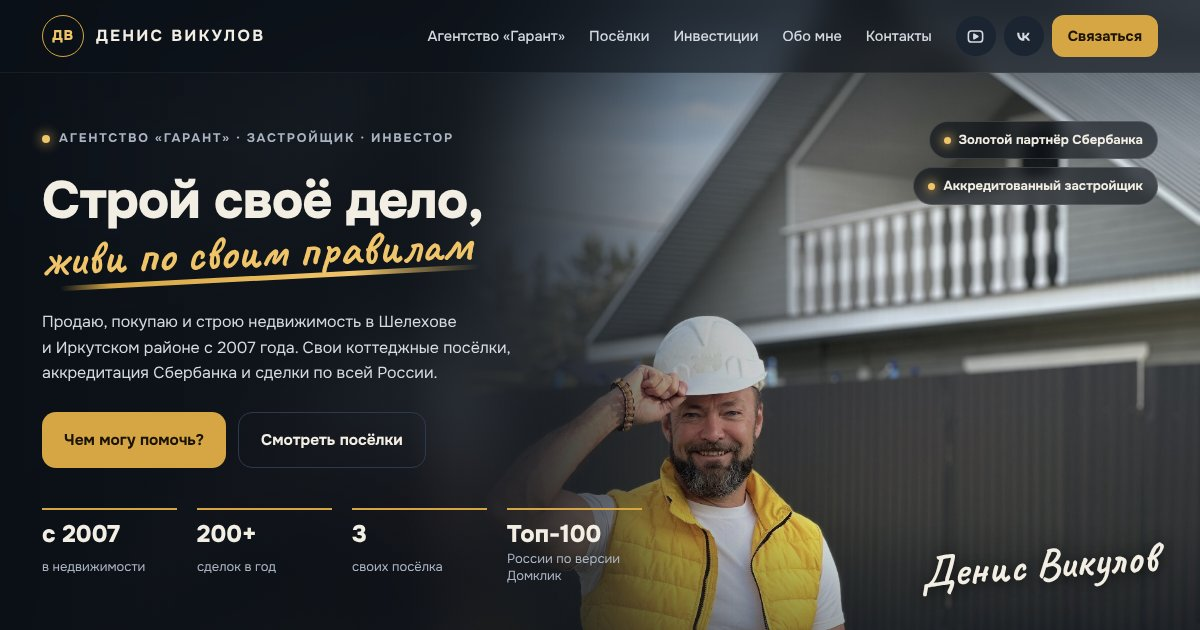
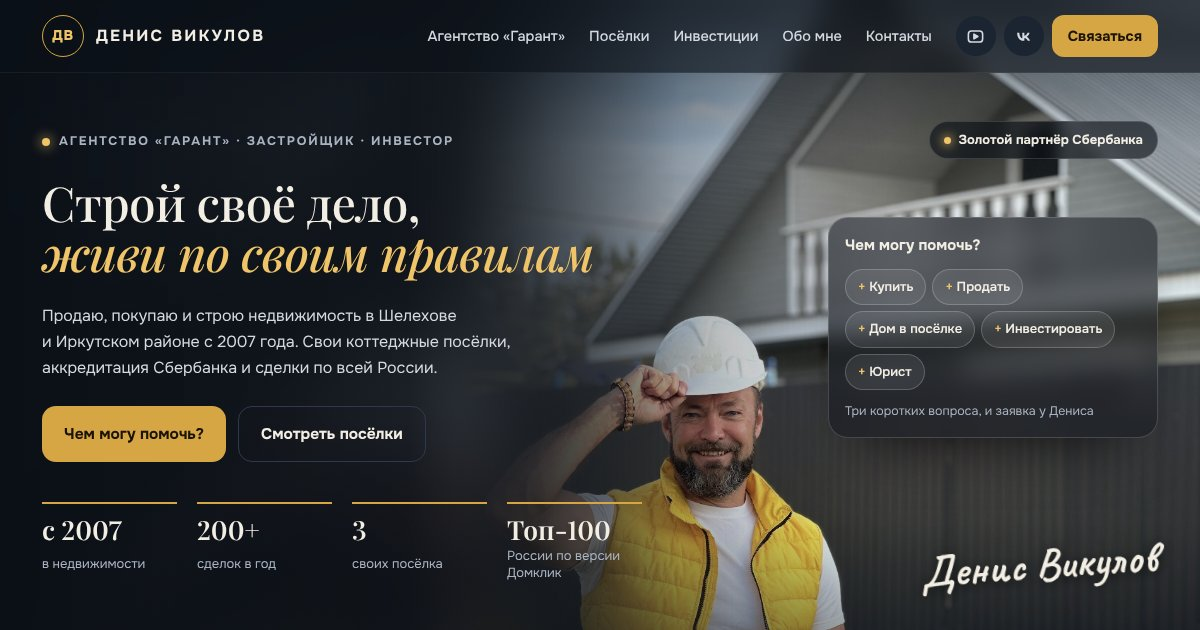
Денис Викулов: заголовки с засечками и карточка «Чем могу помочь?» по референсам
Claude-Session: https://claude.ai/code/session_01MqcZMF1QZGroxt2dRB4nWR

diff --git a/denis-vikulov/index.html b/denis-vikulov/index.html
@@ -9,7 +9,7 @@
 <link rel="icon" href="img/avatar.jpg">
 <link rel="preconnect" href="https://fonts.googleapis.com">
 <link rel="preconnect" href="https://fonts.gstatic.com" crossorigin>
-<link rel="stylesheet" href="https://fonts.googleapis.com/css2?family=Onest:wght@400;500;600;700;800&family=Caveat:wght@700&display=swap">
+<link rel="stylesheet" href="https://fonts.googleapis.com/css2?family=Onest:wght@400;500;600;700;800&family=Playfair+Display:ital,wght@0,500;0,600;1,500&family=Caveat:wght@700&display=swap">
 <style>
 /* Главный экран как баннер Дениса, только вживую: слева слоган и цифры, справа два мира (стройка и горы), снизу четыре входа в направления */
 :root{
@@ -19,6 +19,7 @@
   --green:#8CC46F;--wa:#25D366;
   --font:"Onest",system-ui,-apple-system,"Segoe UI",Roboto,sans-serif;
   --script:"Caveat","Segoe Script",cursive;
+  --serif:"Playfair Display",Georgia,serif;
   color-scheme:dark;
 }
 *{box-sizing:border-box}
@@ -67,20 +68,26 @@ nav a:hover{color:var(--gold-hi)}
 .stage::after{content:"";position:absolute;inset:0;z-index:-1;background:linear-gradient(90deg,var(--bg) 0%,rgb(11 16 23 / .9) 34%,rgb(11 16 23 / .35) 56%,transparent 74%),linear-gradient(180deg,rgb(11 16 23 / .6) 0%,transparent 18%,transparent 64%,var(--bg) 100%)}
 .hero{position:relative;display:grid;grid-template-columns:minmax(0,600px) minmax(0,1fr);gap:40px;min-height:clamp(560px,calc(100vh - 210px),720px);padding-block:clamp(48px,7vh,84px) 40px;align-items:center}
 .h-left{display:grid;gap:26px;align-content:center}
-.hero h1{font-weight:800;font-size:clamp(40px,4.4vw,64px);line-height:1;letter-spacing:-.02em}
-.hero h1 .scr{display:block;position:relative;width:max-content;max-width:100%;margin-top:.16em;font-family:var(--script);font-weight:700;font-size:clamp(40px,4vw,58px);line-height:1;letter-spacing:0;color:var(--gold-hi);transform:rotate(-2deg);transform-origin:left center}
-.hero h1 .scr::after{content:"";position:absolute;left:4%;right:-2%;bottom:-.1em;height:.11em;border-radius:99px;background:linear-gradient(90deg,transparent,var(--gold) 12%,var(--gold-hi) 70%,transparent);transform:rotate(-1deg)}
+.hero h1{font-family:var(--serif);font-weight:500;font-size:clamp(38px,4vw,58px);font-variant-numeric:lining-nums;line-height:1.04;letter-spacing:-.01em}
+.hero h1 .scr{display:block;font-style:italic;color:var(--gold-hi)}
+
 .sub{font-size:clamp(16px,1.3vw,18.5px);color:#D5D9E0;max-width:46ch;line-height:1.6}
 .acts{display:flex;flex-wrap:wrap;gap:12px}
 .stats{display:grid;grid-template-columns:repeat(4,minmax(0,1fr));gap:20px;margin-top:14px}
 .stats div{border-top:2px solid var(--gold);padding-top:12px;display:grid;gap:4px}
-.stats b{font-size:clamp(22px,2vw,28px);font-weight:800;line-height:1.05}
+.stats b{font-family:var(--serif);font-weight:600;font-variant-numeric:lining-nums;font-size:clamp(24px,2.2vw,32px);line-height:1.05}
 .stats span{font-size:13px;color:var(--muted);line-height:1.3}
 .h-marks{position:relative;align-self:stretch}
 .chip{position:absolute;z-index:3;display:inline-flex;align-items:center;gap:8px;background:rgb(11 16 23 / .62);backdrop-filter:blur(8px);border:1px solid rgb(255 255 255 / .14);border-radius:999px;padding:8px 14px;font-size:13px;font-weight:700;white-space:nowrap}
 .chip::before{content:"";width:7px;height:7px;border-radius:50%;background:var(--gold-hi);box-shadow:0 0 10px 2px rgb(240 197 106 / .6)}
 .chip.sber{top:0;right:0}
-.chip.akk{top:46px;right:0}
+.ask{position:absolute;right:0;top:96px;width:330px;display:grid;gap:12px;padding:16px;border-radius:20px;background:rgb(11 16 23 / .5);backdrop-filter:blur(14px);border:1px solid rgb(255 255 255 / .16);box-shadow:0 30px 60px -30px rgb(0 0 0 / .8)}
+.ask b{font-size:15px}
+.ask small{font-size:12.5px;color:var(--muted)}
+.ask .opts{display:flex;flex-wrap:wrap;gap:6px}
+.ask .opts button{border:1px solid rgb(255 255 255 / .2);background:rgb(255 255 255 / .08);border-radius:999px;padding:7px 12px;font-size:13px;font-weight:600}
+.ask .opts button::before{content:"+ ";color:var(--gold-hi)}
+.ask .opts button:hover{border-color:var(--gold);background:var(--gold-tint)}
 .sign{position:absolute;right:0;bottom:6px;font-family:var(--script);font-size:44px;line-height:1;color:var(--ink);text-shadow:0 2px 14px rgb(0 0 0 / .7);transform:rotate(-4deg)}
 
 /* четыре входа */
@@ -102,13 +109,12 @@ nav a:hover{color:var(--gold-hi)}
   .bg-photo{left:0;width:auto;bottom:auto;height:460px;background-position:30% 18%;-webkit-mask-image:linear-gradient(180deg,#000 60%,transparent);mask-image:linear-gradient(180deg,#000 60%,transparent)}
   .stage::after{background:linear-gradient(180deg,rgb(11 16 23 / .35) 0,transparent 90px,transparent 190px,rgb(11 16 23 / .8) 330px,var(--bg) 440px)}
   .h-marks{position:absolute;inset:16px 0 auto 0;height:260px}
-  .chip.akk,.sign{display:none}
+  .ask,.sign{display:none}
 }
 @media (max-width:640px){
   .chip{font-size:11.5px;padding:5px 10px}
   .h-left{gap:18px}
-  .hero h1{font-size:37px}
-  .hero h1 .scr{font-size:35px;width:max-content}
+  .hero h1{font-size:34px}
   .eyebrow .long2{display:none}
   .sub{font-size:15.5px}
   .sub .long{display:none}
@@ -127,8 +133,8 @@ nav a:hover{color:var(--gold-hi)}
 /* структура */
 section{padding-block:clamp(48px,7vw,88px)}
 .sec-h{display:grid;gap:12px;max-width:760px;margin-bottom:28px}
-.sec-h h2{font-weight:800;font-size:clamp(28px,3.2vw,42px);line-height:1.08;letter-spacing:-.015em}
-.sec-h h2 em{font-style:normal;color:var(--gold-hi)}
+.sec-h h2{font-family:var(--serif);font-weight:500;font-size:clamp(30px,3.4vw,46px);line-height:1.1;letter-spacing:-.005em}
+.sec-h h2 em{font-style:italic;color:var(--gold-hi)}
 .sec-h p{color:var(--muted);font-size:17px}
 .blocks{display:grid;grid-template-columns:repeat(3,minmax(0,1fr));gap:12px}
 .blk{display:grid;gap:8px;align-content:start;padding:18px;border-radius:20px;background:var(--surface);border:1px solid var(--line)}
@@ -228,7 +234,7 @@ dialog p{color:var(--muted);font-size:14.5px;margin-bottom:8px}
           <div><b>Топ-100</b><span>России по&nbsp;версии Домклик</span></div>
         </div>
       </div>
-      <div class="h-marks"><span class="chip sber">Золотой партнёр Сбербанка</span><span class="chip akk">Аккредитованный застройщик</span><span class="sign">Денис Викулов</span></div>
+      <div class="h-marks"><span class="chip sber">Золотой партнёр Сбербанка</span><div class="ask"><b>Чем могу помочь?</b><div class="opts"><button type="button" data-need="Купить квартиру или дом">Купить</button><button type="button" data-need="Продать недвижимость">Продать</button><button type="button" data-need="Дом в посёлке Дениса">Дом в&nbsp;посёлке</button><button type="button" data-need="Инвестировать">Инвестировать</button><button type="button" data-need="Вопрос к юристу">Юрист</button></div><small>Три коротких вопроса, и&nbsp;заявка у&nbsp;Дениса</small></div><span class="sign">Денис Викулов</span></div>
     </div>
 
     <div class="dirs" id="vhody">
@@ -341,6 +347,7 @@ dialog p{color:var(--muted);font-size:14.5px;margin-bottom:8px}
 </dialog>
 
 <script>
+document.querySelectorAll('.ask [data-need]').forEach(b=>b.addEventListener('click',()=>{const r=document.querySelector('input[name="need"][value="'+b.dataset.need+'"]');if(r)r.checked=true;document.getElementById('kviz').scrollIntoView({behavior:'smooth'})}));
 const f=document.getElementById('qform'),ok=document.getElementById('ok'),send=document.getElementById('send');
 ok.addEventListener('change',()=>{send.disabled=!ok.checked});
 document.querySelectorAll('[data-open]').forEach(b=>b.addEventListener('click',()=>document.getElementById(b.dataset.open).showModal()));

diff --git a/denis-vikulov/_iskhodniki/referensy/README.md b/denis-vikulov/_iskhodniki/referensy/README.md
@@ -1,0 +1,12 @@
+# Референсы Анастасии (Pinterest, 24.11)
+
+Что откуда берём:
+- 01 галерея-карусель с вкладками → блок «Обо мне»: вкладки Эльбрус / Байкал / Ольхон / «Суперниндзя», центральная карточка крупно.
+- 02 Havenly, виджет «How are you feeling today?» на фото → на главном экране стеклянная карточка «Чем могу помочь?» с вариантами, ведёт в квиз. СДЕЛАНО.
+- 03 стеклянные карточки → можно для посёлков или галереи.
+- 04 Haven Realty → тёмный с золотом, заголовок с засечками, золотое второе слово; карточки объектов с площадью и ценой → карточки посёлков. Засечки СДЕЛАНО.
+- 05 Aakriti → цифры стеклянными плашками на фото; три преимущества с тонкими иконками → блок «Гарант».
+- 06 этапы стеклом на фоне гор → блок «Как купить дом» (шаги эскроу) на фото гор или посёлка.
+- 07 Agressov → проекты высокими полосами с номерами 01–03 → три посёлка.
+- 08 Aureus Capital → блок инвестиций: проценты и график.
+- 09 шрифты с засечками → Playfair Display для заголовков и цифр. СДЕЛАНО.
